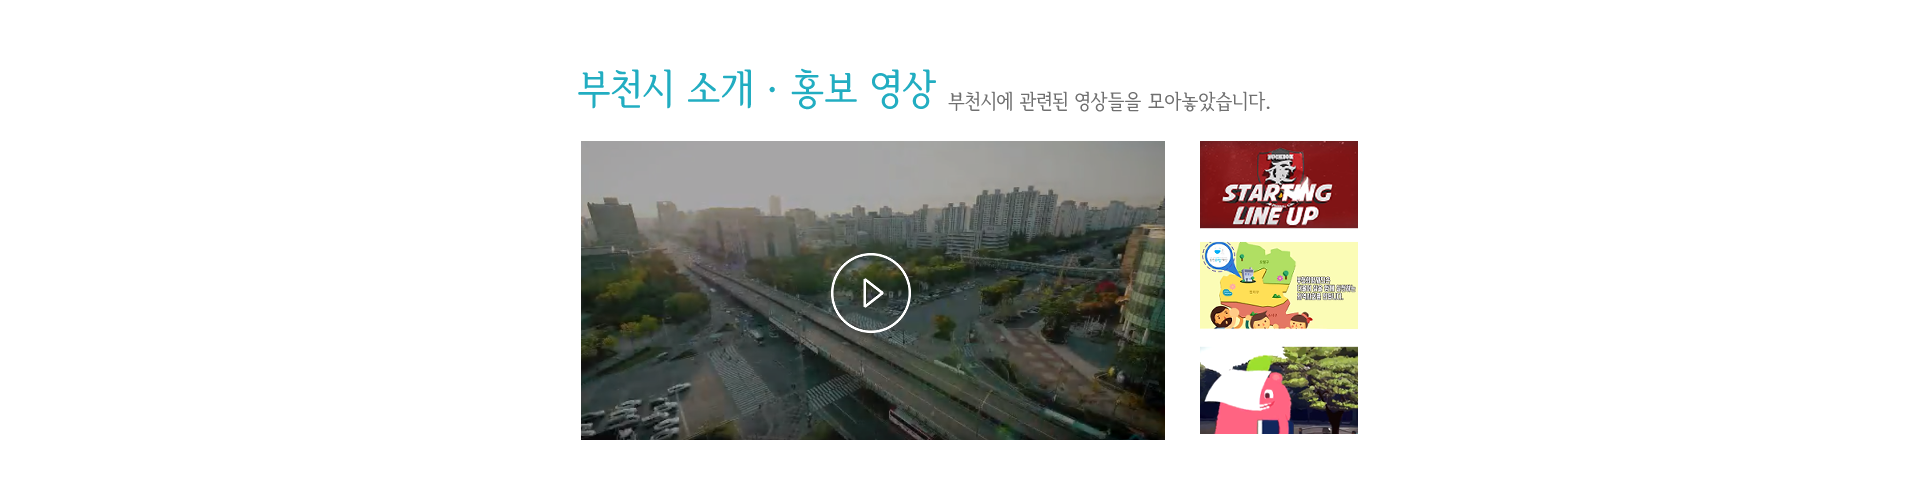
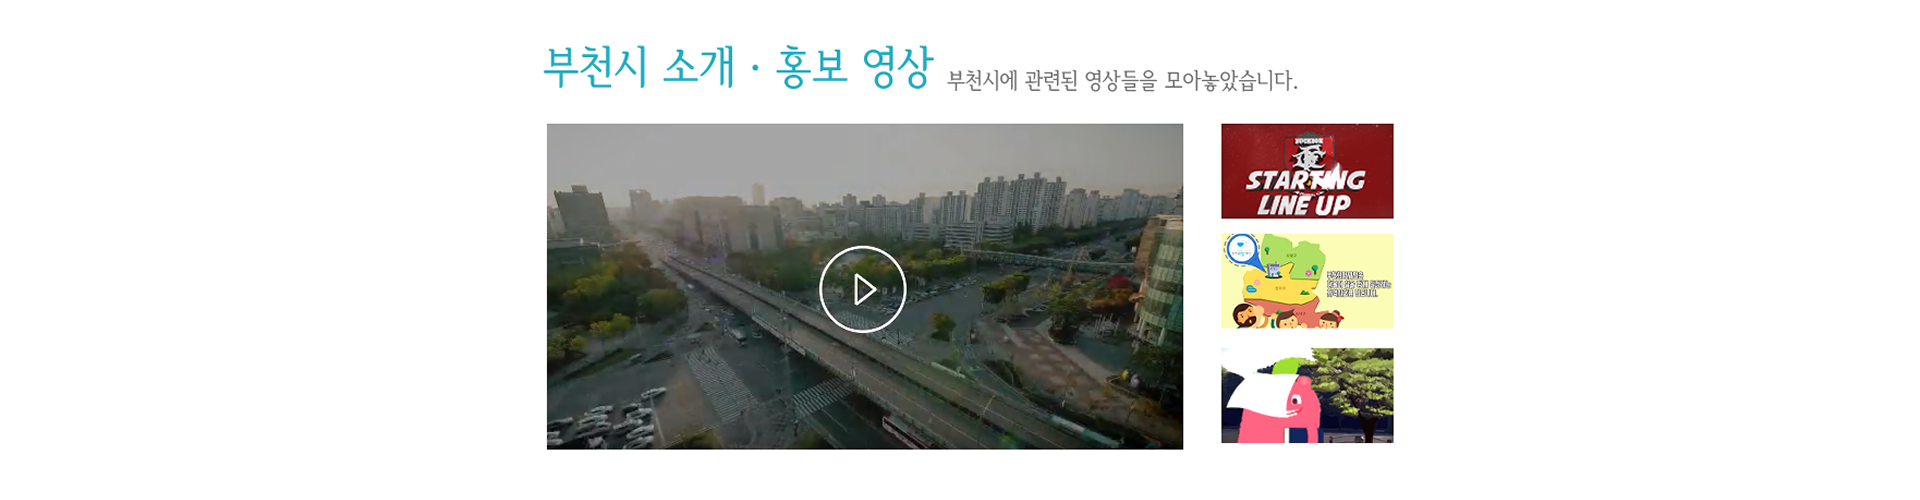
Add files via upload

Changed region(s): [[0.2812, 0.09, 0.75, 0.9]]

diff --git a/index6.html b/index6.html
@@ -11,6 +11,26 @@
 		.clear{
 			clear:both;
 		}
+
+		table{
+		  border-top: 1px solid #dddddd;
+    	border-collapse: collapse;
+		
+	}
+
+		td{
+			text-align: center;
+		}
+		th{
+			background-color: #eeeeee;
+		}
+
+
+  th, td {
+    border-bottom: 1px solid #dddddd;
+    padding: 10px;
+  }
+
 		body{
 			background-image: url(./back.png);
 			width: 100%;
@@ -59,7 +79,8 @@
 			float: left;	
 			background-color: white;
 			margin-top: 25px;
-			margin-bottom: 60px;
+			padding-left: 600px;
+			width: 1920px;
 				}
 		
 		footer{
@@ -144,12 +165,121 @@
 	</nav>
 <div class="clear"></div><!--속성해제-->
 <section>
-	<div id ='left'>
-	<img src="./vid.png" width="1920">
-</div>
+	<h2>1:1문의</h2>
+	<br>
+	<table class="table" width="700" height="400">
+			<tr>
+				<th>번호</th>
+				<th>제목</th>
+				<th>작성자</th>
+				<th>날짜</th>
+				<th>조회수</th>
+			</tr>
+
+		
+
+	<tr>
+			<td>12</td>
+			<td>홈페이지 영상 오류 </td>
+			<td>김고은</td>
+			<td>2019.10.20</td>
+			<td>32</td>
+		</tr>
+
+
+	<tr>
+			<td>11</td>
+			<td>봉사활동 간식 주나요</td>
+			<td>정윤주</td>
+			<td>2019.10.13</td>
+			<td>64</td>
+		</tr>
+
+
+		<tr>
+			<td>10</td>
+			<td>행사일정은 어디서보나요</td>
+			<td>김현우</td>
+			<td>2019.10.02</td>
+			<td>18</td>
+		</tr>
+
+		<tr>
+			<td>9</td>
+			<td>게시판 건의사항</td>
+			<td>김송희</td>
+			<td>2019.09.14</td>
+			<td>130</td>
+		</tr>
+
+		<tr>
+			<td>8</td>
+			<td>만화축제 공식 홈페이지가 어디있나요</td>
+			<td>김혜원</td>
+			<td>2019.09.13</td>
+			<td>32</td>
+		</tr>
+
+		<tr>
+			<td>7</td>
+			<td>아인스월드 몇시에 여나여</td>
+			<td>오수현</td>
+			<td>2019.08.14</td>
+			<td>143</td>
+		</tr>
+
+		<tr>
+			<td>6</td>
+			<td>영상진흥원 전화번호가 뭔가요?</td>
+			<td>박민서</td>
+			<td>2019.08.13</td>
+			<td>13</td>
+		</tr>
+
+		<tr>
+			<td>5</td>
+			<td>부천대학교 종강일이 언제인가요</td>
+			<td>김종현</td>
+			<td>2019.06.15</td>
+			<td>875</td>
+		</tr>
+		<tr>
+			<td>4</td>
+			<td>부천시 맛집정보좀 알려주세요</td>
+			<td>최민기</td>
+			<td>2019.06.13</td>
+			<td>77</td>
+		</tr>
+		<tr>
+			<td>3</td>
+			<td>졸업이 너무 기대돼요</td>
+			<td>김혜선</td>
+			<td>2019.06.10</td>
+			<td>38</td>
+		</tr>
+		<tr>
+			<td>2</td>
+			<td>종강이 너무 기대돼요</td>
+			<td>오수현</td>
+			<td>2019.05.21</td>
+			<td>278</td>
+		</tr>
+		<tr>
+			<td>1</td>
+			<td>§§귀여운_강아지 사진 보는곳!!%%화끈한%24시§§</td>
+			<td>강미나</td>
+			<td>2019.05.07</td>
+			<td>100</td>
+		</tr>
+	</table>
 </section>
-<br>
-<br>
+<div class="clear"></div>
+<div id='back'>
+<section class='clear'>
+	<br>
+	<br>
+	<br>
+</section>
 <footer class="clear">
 			</div>
 	</footer>

diff --git a/index7.html b/index7.html
@@ -56,9 +56,11 @@
 		}
 
 		section{
-			float: left;
-			height: 500px;	
+			float: left;	
 			background-color: white;
+			margin-top: 25px;
+			width: 100%;
+			padding-left: 400px;
 				}
 		
 		footer{
@@ -89,23 +91,20 @@
 		.dropdown:hover .dropdown-content{
 		display: block;
 	}
+	.image {
+		transition: transform 500ms;
+	}
+	.image:hover {
+		transform: scale(2.0);
+		transition: transform 500ms;
+	}
 
 	#center{ margin: auto; }
-
-	#login{
-		margin-top: 60px;
-		margin-left: 760px;
-		width : 400px;
-		height: 200px;
-		text-align: center;
-		border: dotted 2px #cccccc;
-		padding-top: 55px;
-		line-height: 260%;
-		padding-bottom: -40px;
-	}
 	</style>
 </head>
 <body>
+
+<div id= 'center'>
 <header>
 	<div id='logo'>
 		<a href="./index.html">
@@ -122,7 +121,7 @@
 			<li>
 			<div class="dropdown">
 	<span>하이라이트</span>
-	<div class="dropdown-content"
+	<div class="dropdown-content">
 	<p><a href="./index2.html">축제&행사</a></p>
 	<p><a href="./index7.html">부천 갤러리</p>
 	<p><a href="./index5.html">부천 영상</a></p>
@@ -132,7 +131,7 @@
 			<li>
 				<div class="dropdown">
 	<span>부천 즐기기</span>
-	<div class="dropdown-content"
+	<div class="dropdown-content">
 	<p>추천코스</p>
 	<p>쇼핑</p>
 	<p>음식점</p>
@@ -153,17 +152,30 @@
 	</nav>
 <div class="clear"></div><!--속성해제-->
 <section>
-	<div id= login>
-		<h3>LOGIN</h3>
-		아이디 : <input type="text"><br>
-		비밀번호 : <input type="text"> <br>
-		<input type="submit" name="확인"></th>
-	</div>
+	<div id ='left'>
+		<h2>GALLERY</h2><br>
+		<img src="./pic1.jpg" width="300"class='image'>
+		<img src="./pic2.jpg" width="300"class='image'>
+		<img src="./pic3.jpg" width="300"class='image'>
+		<img src="./pic4.jpg" width="300"class='image'><br>
+		<img src="./pic5.png" width="300"class='image'>
+		<img src="./pic6.jpg" width="300"class='image'>
+		<img src="./pic7.jpg" width="300"class='image'>
+		<img src="./pic8.jpg" width="300"class='image'><br>
+		<img src="./pic9.jpg" width="300"class='image'>
+		<img src="./pic10.jpg" width="300"class='image'>
+		<img src="./pic11.jpg" width="300"class='image'>
+		<img src="./pic12.jpg" width="300"class='image'>
+		<br>
+		<br>
+		<br>
 
+		</div>
 </section>
 
 <footer class="clear">
 			</div>
 	</footer>
+</div>
 </body>
 </html>

diff --git a/index.html b/index.html
@@ -114,7 +114,7 @@
 	<span>하이라이트</span>
 	<div class="dropdown-content">
 	<p><a href="./index2.html">축제&행사</a></p>
-	<p>부천 top10</p>
+	<p><a href="./index7.html">부천 갤러리</p>
 	<p><a href="./index5.html">부천 영상</a></p>
 	</div>
 	</div>
@@ -135,7 +135,7 @@
 			<li> 	<div class="dropdown">
 	<span>고객센터</span>
 	<div class="dropdown-content">
-	<p>1:1문의</p>
+	<p><a href="./index6.html">1:1문의</a></p>
 	<p>콜센터</p>
 	</div>
 	</div></li>

diff --git a/index2.html b/index2.html
@@ -114,7 +114,7 @@
 	<span>하이라이트</span>
 	<div class="dropdown-content">
 	<p><a href="./index2.html">축제&행사</a></p>
-	<p>부천 top10</p>
+	<p><a href="./index7.html">부천 갤러리</p>
 	<p><a href="./index5.html">부천 영상</a></p>
 	</div>
 	</div>
@@ -135,7 +135,7 @@
 			<li> 	<div class="dropdown">
 	<span>고객센터</span>
 	<div class="dropdown-content">
-	<p>1:1문의</p>
+	<p><a href="./index6.html">1:1문의</a></p>
 	<p>콜센터</p>
 	</div>
 	</div></li>

diff --git a/index4.html b/index4.html
@@ -139,7 +139,7 @@
 	<span>하이라이트</span>
 	<div class="dropdown-content"
 	<p><a href="./index2.html">축제&행사</a></p>
-	<p>부천 top10</p>
+	<p><a href="./index7.html">부천 갤러리</p>
 	<p><a href="./index5.html">부천 영상</a></p>
 	</div>
 	</div>
@@ -160,7 +160,7 @@
 			<li> 	<div class="dropdown">
 	<span>고객센터</span>
 	<div class="dropdown-content">
-	<p>1:1문의</p>
+	<p><a href="./index6.html">1:1문의</a></p>
 	<p>콜센터</p>
 	</div>
 	</div></li>
